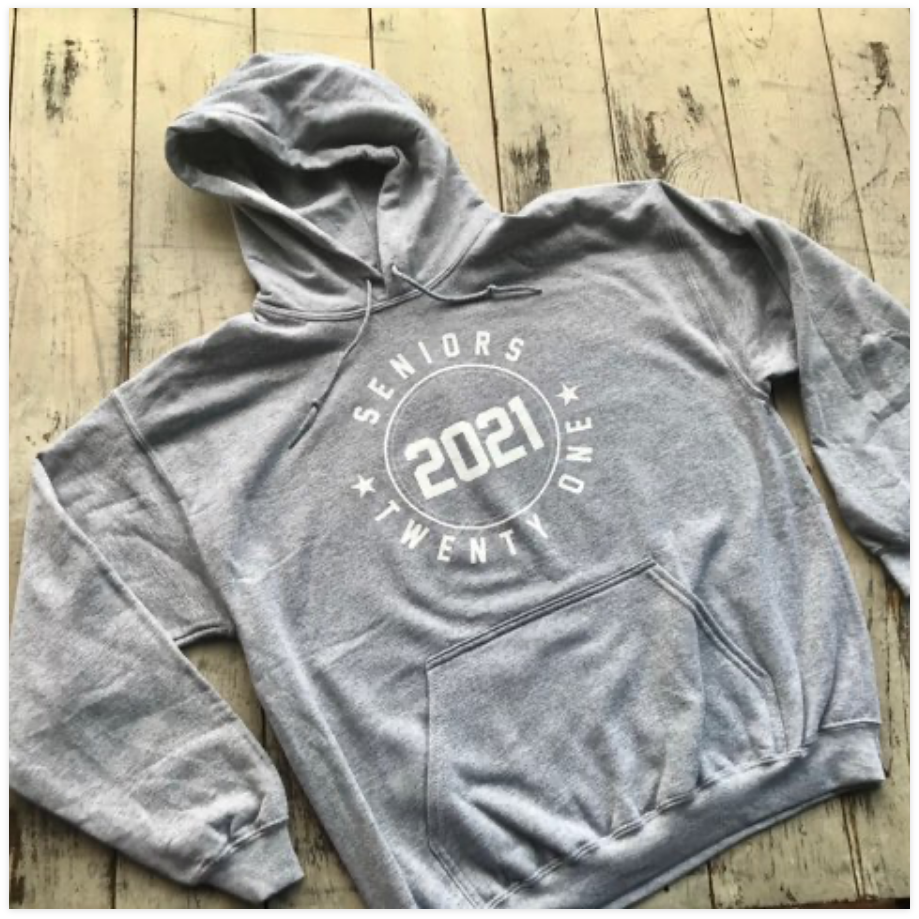
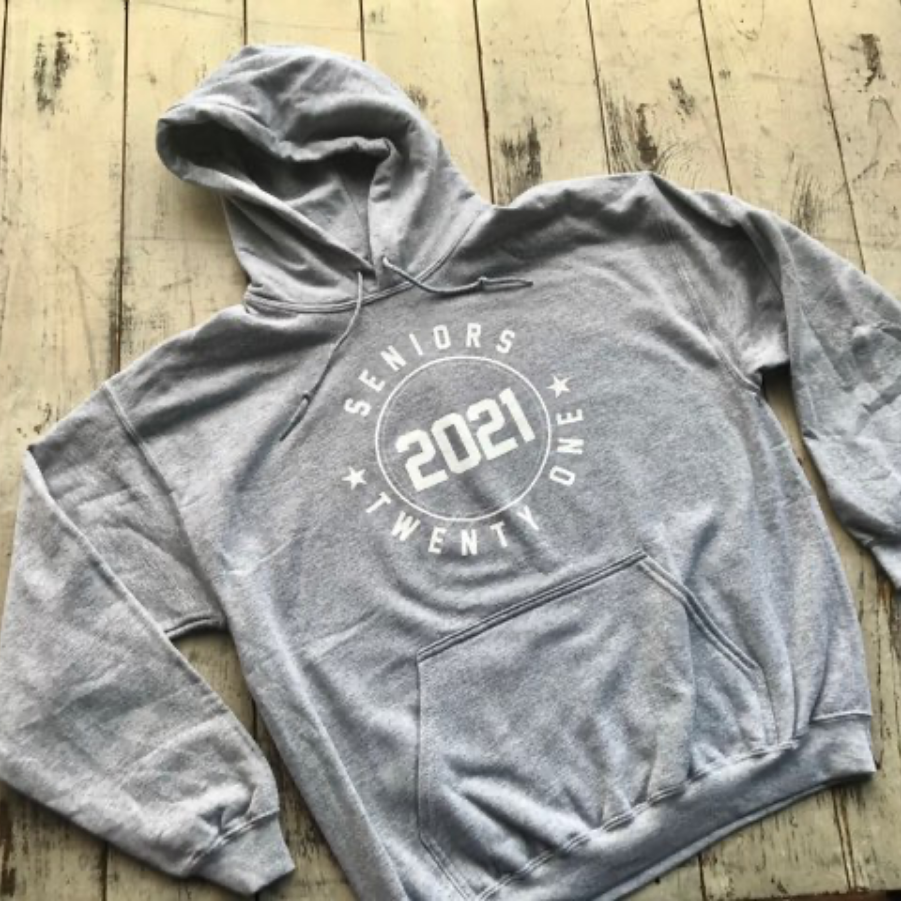
shadow fix

diff --git a/main.css b/main.css
@@ -22,7 +22,7 @@
 
 .product-item {width:142px ;display: inline-block;margin-left: 10px;vertical-align: top;}
 
-.product-item > img {width: 100%; border-radius: 12px; box-shadow: 0px 0px 5px 1px rgba(0,0,0,0.2);background-color: transparent;}
+.product-item > img {width: 100%; border-radius: 12px; box-shadow: 0px 0px 5px 1px rgba(0,0,0,0.2);background-color: transparent;object-fit: cover;height: 142px;}
 
 .product-text > h3 {font-size: 14px;font-weight: 600;}
 
